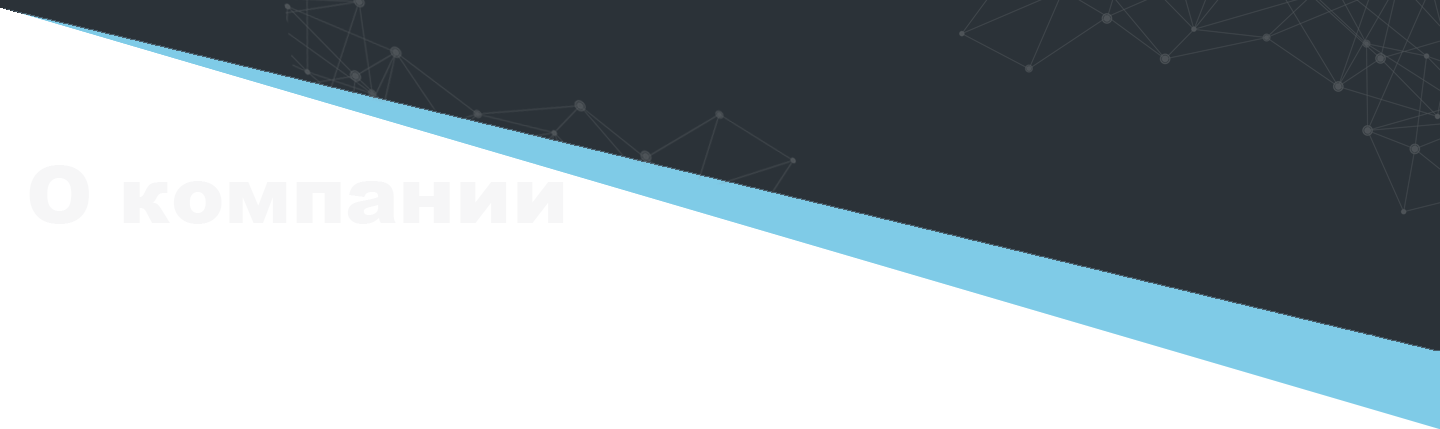
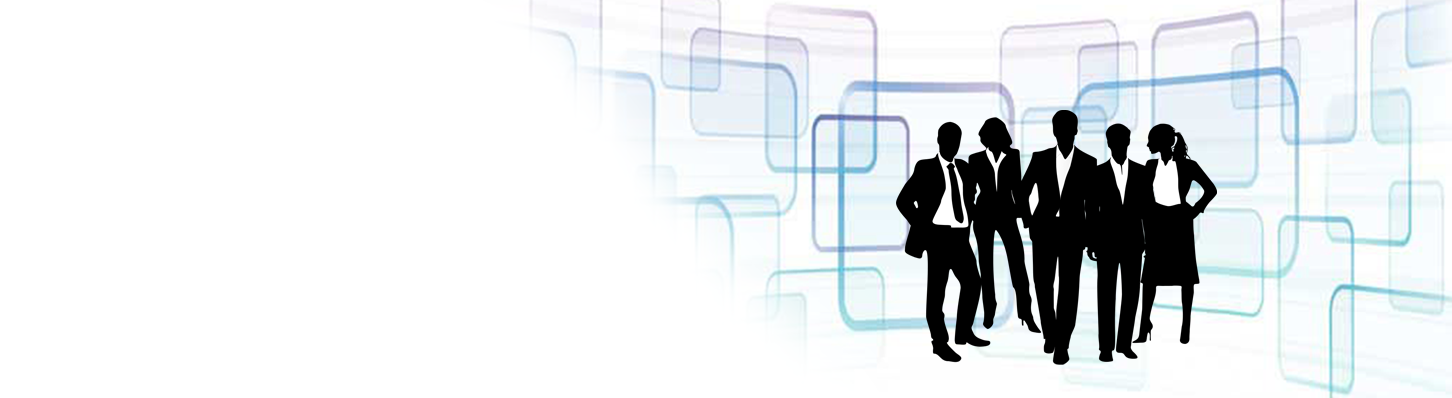
company text

diff --git a/scss/company.scss b/scss/company.scss
@@ -1,3 +1,93 @@
+
+.wrapper-company {
+    background-color: white;
+    height: 550px;
+}
+.container-wrapper {
+    background: url(/img/0001.png) no-repeat;
+    width: 100%;
+    height: 400px;
+    max-width: 1500px;
+    margin: 0 auto;
+
+}
+
 .company-container {
-    background: url(/img/head-img1.png) no-repeat;
+    width: 46%;
+    position: absolute;
+    margin-top: 90px;
+}
+
+.company-title {
+    font-size: 30px;
+    /* margin: auto auto 73px; */
+    max-width: 985px;
+    text-align: center;
+    color: white;
+    /* padding: 0px 16px 0px 0px; */
+    color: white;
+    font-family: "Montserrat", Sans-serif;
+    /* font-size: 14px; */
+    /* font-weight: 400; */
+    /* text-transform: uppercase; */
+    font-style: normal;
+    text-decoration: none;
+    /* line-height: 15px; */
+    letter-spacing: 1.2px;
+    color: linear-gradient(to top, #fefcea, #f1da36);
+    font-family: 'Rubik One', sans-serif;
+    font-size: 70px;
+    /* text-transform: uppercase; */
+    background: linear-gradient(45deg, #adb5bd 33%, #dee2e6 56%, #007bff);
+    -webkit-background-clip: text;
+    -webkit-text-fill-color: transparent;
+    color: #0B2349;
+    display: block;
+    margin: 75x auto;
+    filter: drop-shadow(5px 7px 4px black);
+}
+.company-text-page {
+    -webkit-filter: blur(1.8px);
+    font-size: 58px;
+    color: white;
+    padding: 0px 50px -27px -16px;
+    color: #cdd3d8;
+    font-weight: 200;
+    font-style: normal;
+    text-decoration: none;
+    letter-spacing: 1.2px;
+    width: 83%;
+    margin: auto;
+    text-align: justify;
+}
+.section-variant {
+    position: relative;
+z-index: 20;
+}
+.way-point {
+    position: absolute;
+left: 50%;
+transform: translateX(-50%);
+bottom: calc(100% - 2px);
+display: flex;
+cursor: pointer;
+fill: cornflowerblue;
+}
+svg {
+    x: 0px;
+y: 0px;
+width: 253px;
+height: 38px;
+}
+.way-point_icon {
+    font-size: 30px;
+position: absolute;
+bottom: -3px;
+left: 50%;
+transform: translateX(-50%);
+color: #fff;
+transition: .4s cubic-bezier(.68,-.55,.27,1.55) all;
+}
+.way-point_icon::before {
+    content: "\2193";
 }

diff --git a/public/css/company.css b/public/css/company.css
@@ -1,1 +1,1 @@
-.company-container{background:url(/img/head-img1.png) no-repeat}
+.wrapper-company{background-color:white;height:550px}.container-wrapper{background:url(/img/0001.png) no-repeat;width:100%;height:400px;max-width:1500px;margin:0 auto}.company-container{width:46%;position:absolute;margin-top:90px}.company-title{font-size:30px;max-width:985px;text-align:center;color:white;color:white;font-family:"Montserrat", Sans-serif;font-style:normal;text-decoration:none;letter-spacing:1.2px;color:linear-gradient(to top, #fefcea, #f1da36);font-family:'Rubik One', sans-serif;font-size:70px;background:linear-gradient(45deg, #adb5bd 33%, #dee2e6 56%, #007bff);-webkit-background-clip:text;-webkit-text-fill-color:transparent;color:#0B2349;display:block;margin:75x auto;filter:drop-shadow(5px 7px 4px black)}.company-text-page{-webkit-filter:blur(1.8px);font-size:58px;color:white;padding:0px 50px -27px -16px;color:#cdd3d8;font-weight:200;font-style:normal;text-decoration:none;letter-spacing:1.2px;width:83%;margin:auto;text-align:justify}.section-variant{position:relative;z-index:20}.way-point{position:absolute;left:50%;transform:translateX(-50%);bottom:calc(100% - 2px);display:flex;cursor:pointer;fill:cornflowerblue}svg{x:0px;y:0px;width:253px;height:38px}.way-point_icon{font-size:30px;position:absolute;bottom:-3px;left:50%;transform:translateX(-50%);color:#fff;transition:0.4s cubic-bezier(0.68, -0.55, 0.27, 1.55) all}.way-point_icon::before{content:"\2193"}
